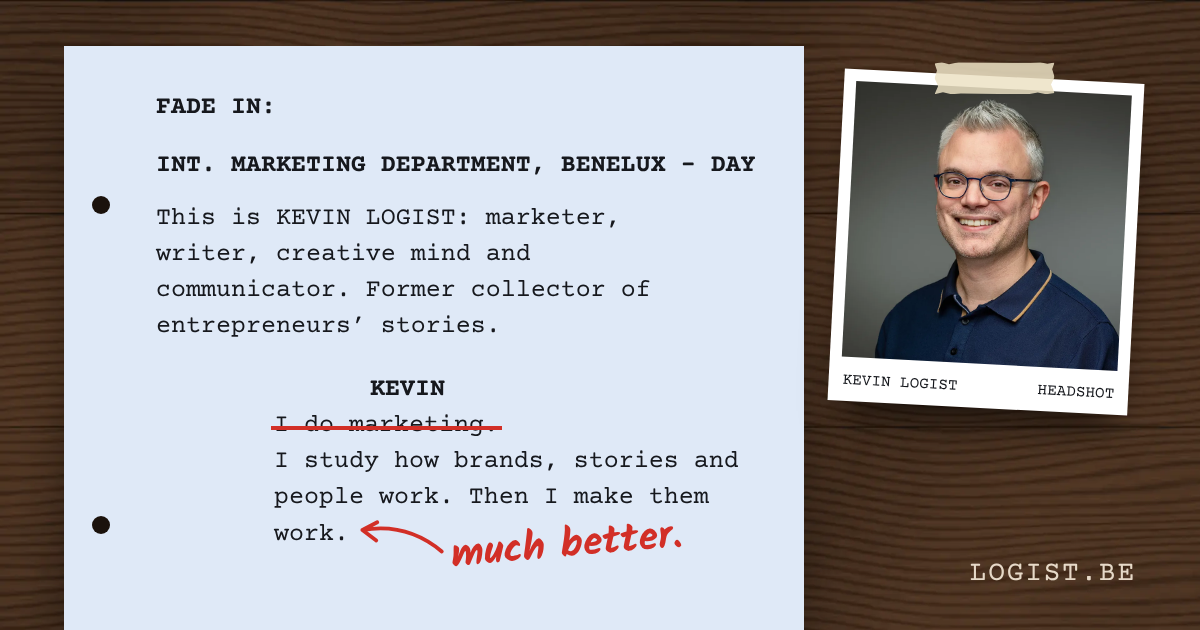
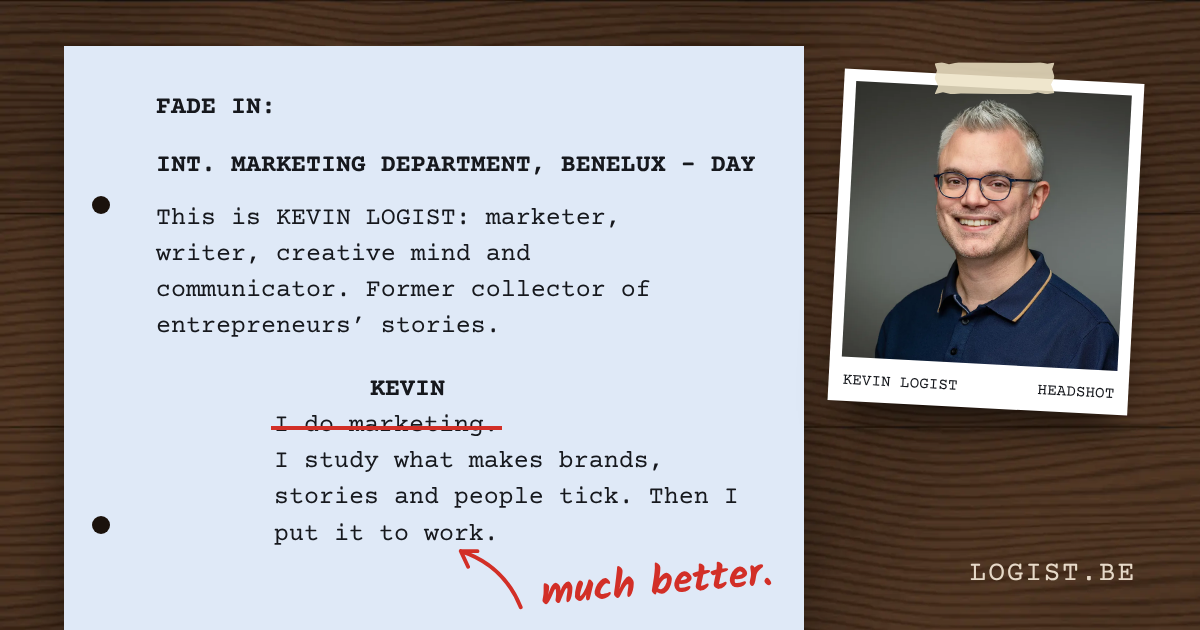
Home: tagline without the double "work" (#3)
Claude-Session: https://claude.ai/code/session_01TsLiEXRLixPrhDtcmGMJW5

Changed region(s): [[0.2158, 0.7238, 0.6475, 0.9651], [0.5858, 0.7841, 0.6167, 0.8143]]

diff --git a/index.html b/index.html
@@ -1,11 +1,11 @@
 <!doctype html>
-<!-- logist.be, site 1.0.1 -->
+<!-- logist.be, site 1.0.2 -->
 <html lang="en">
 <head>
 <meta charset="utf-8">
 <meta name="viewport" content="width=device-width, initial-scale=1, viewport-fit=cover">
 <title>Kevin Logist · Field notes on brands, stories and people</title>
-<meta name="description" content="Kevin Logist studies how brands, stories and people work, and then makes them work. Marketing &amp; communications leader in the Benelux, based in Limburg. Essays, case files and AI experiments.">
+<meta name="description" content="Kevin Logist studies what makes brands, stories and people tick, and then puts it to work. Marketing &amp; communications leader in the Benelux, based in Limburg. Essays, case files and AI experiments.">
 <meta name="robots" content="noindex, nofollow">
 <link rel="canonical" href="https://logist.be/">
 <meta name="theme-color" content="#2a1c13" media="(prefers-color-scheme: light)">
@@ -13,7 +13,7 @@
 <meta property="og:type" content="website">
 <meta property="og:site_name" content="Kevin Logist">
 <meta property="og:title" content="Kevin Logist · Field notes on brands, stories and people">
-<meta property="og:description" content="Kevin Logist studies how brands, stories and people work, and then makes them work. Marketing &amp; communications leader in the Benelux, based in Limburg. Essays, case files and AI experiments.">
+<meta property="og:description" content="Kevin Logist studies what makes brands, stories and people tick, and then puts it to work. Marketing &amp; communications leader in the Benelux, based in Limburg. Essays, case files and AI experiments.">
 <meta property="og:url" content="https://logist.be/">
 <meta property="og:image" content="https://logist.be/assets/img/share.png">
 <meta property="og:image:width" content="1200">
@@ -24,7 +24,7 @@
 <link rel="apple-touch-icon" href="assets/img/apple-touch-icon.png">
 <link rel="preload" href="assets/fonts/courier-prime.woff2" as="font" type="font/woff2" crossorigin>
 <link rel="preload" href="assets/fonts/courier-prime-bold.woff2" as="font" type="font/woff2" crossorigin>
-<link rel="stylesheet" href="assets/site.css?v=1.0.1">
+<link rel="stylesheet" href="assets/site.css?v=1.0.2">
 <script type="application/ld+json">{"@context": "https://schema.org", "@type": "Person", "name": "Kevin Logist", "url": "https://logist.be/", "jobTitle": ["Director of Marketing & Communications Benelux", "Country Head of Communications"], "worksFor": [{"@type": "Organization", "name": "Akkodis"}, {"@type": "Organization", "name": "The Adecco Group"}], "homeLocation": {"@type": "Place", "name": "Limburg, Belgium"}, "knowsLanguage": ["nl", "fr", "en"], "sameAs": ["https://www.linkedin.com/in/kevinlogist"]}</script>
 </head>
 <body class="page-index">
@@ -36,7 +36,7 @@
 <nav class="site-nav" id="site-nav" aria-label="Sections"><ul class="nav-primary"><li><a href="field-notes.html">Field notes</a></li><li><a href="case-files.html">Case files</a></li><li><a href="lab.html">Lab</a></li><li><a href="now.html">Now</a></li><li><a href="about.html">About</a></li></ul></nav>
 </header>
 <div class="sheet">
-<p class="rev">Blue revision · <time datetime="2026-11-16">16/11/2026</time></p>
+<p class="rev">Blue revision · <time datetime="2026-11-17">17/11/2026</time></p>
 <div class="holes" aria-hidden="true"><i></i><i></i><i></i></div>
 <main id="main">
 <h1 class="sr-only">Kevin Logist, marketing and communications leader in the Benelux</h1>
@@ -50,7 +50,7 @@
 
 <p class="char">Kevin</p>
 <div class="dlg rewrite" id="rewrite">
-<p><del>I do marketing.</del> <ins>I study how brands, stories and people work. Then I make them work.</ins></p>
+<p><del>I do marketing.</del> <ins>I study what makes brands, stories and people tick. Then I put it to work.</ins></p>
 <span class="note" aria-hidden="true"><svg viewBox="0 0 70 34"><path d="M66 4C50 20 30 28 6 26M6 26l10-9M6 26l12 5" fill="none" stroke="currentColor" stroke-width="3" stroke-linecap="round"/></svg>much better.</span>
 </div>
 <script>

diff --git a/field-notes/why-b2b-tech-brands-sound-the-same.html b/field-notes/why-b2b-tech-brands-sound-the-same.html
@@ -1,5 +1,5 @@
 <!doctype html>
-<!-- logist.be, site 1.0.1 -->
+<!-- logist.be, site 1.0.2 -->
 <html lang="en">
 <head>
 <meta charset="utf-8">
@@ -26,7 +26,7 @@
 <link rel="apple-touch-icon" href="../assets/img/apple-touch-icon.png">
 <link rel="preload" href="../assets/fonts/courier-prime.woff2" as="font" type="font/woff2" crossorigin>
 <link rel="preload" href="../assets/fonts/courier-prime-bold.woff2" as="font" type="font/woff2" crossorigin>
-<link rel="stylesheet" href="../assets/site.css?v=1.0.1">
+<link rel="stylesheet" href="../assets/site.css?v=1.0.2">
 <script type="application/ld+json">{"@context": "https://schema.org", "@type": "BlogPosting", "headline": "Why so many B2B tech brands sound the same", "description": "Cover the logos on five B2B tech homepages and you can’t tell them apart. Kevin Logist on the four forces behind the sameness, and five ways out.", "datePublished": "2026-11-16", "dateModified": "2026-11-16", "inLanguage": "en", "url": "https://logist.be/field-notes/why-b2b-tech-brands-sound-the-same.html", "mainEntityOfPage": "https://logist.be/field-notes/why-b2b-tech-brands-sound-the-same.html", "image": "https://logist.be/assets/img/share.png", "author": {"@type": "Person", "name": "Kevin Logist", "url": "https://logist.be/"}}</script>
 </head>
 <body class="page-field-notes page-why-b2b-tech-brands-sound-the-same">

diff --git a/about.html b/about.html
@@ -1,5 +1,5 @@
 <!doctype html>
-<!-- logist.be, site 1.0.1 -->
+<!-- logist.be, site 1.0.2 -->
 <html lang="en">
 <head>
 <meta charset="utf-8">
@@ -24,7 +24,7 @@
 <link rel="apple-touch-icon" href="assets/img/apple-touch-icon.png">
 <link rel="preload" href="assets/fonts/courier-prime.woff2" as="font" type="font/woff2" crossorigin>
 <link rel="preload" href="assets/fonts/courier-prime-bold.woff2" as="font" type="font/woff2" crossorigin>
-<link rel="stylesheet" href="assets/site.css?v=1.0.1">
+<link rel="stylesheet" href="assets/site.css?v=1.0.2">
 <script type="application/ld+json">{"@context": "https://schema.org", "@type": "Person", "name": "Kevin Logist", "url": "https://logist.be/", "jobTitle": ["Director of Marketing & Communications Benelux", "Country Head of Communications"], "worksFor": [{"@type": "Organization", "name": "Akkodis"}, {"@type": "Organization", "name": "The Adecco Group"}], "homeLocation": {"@type": "Place", "name": "Limburg, Belgium"}, "knowsLanguage": ["nl", "fr", "en"], "sameAs": ["https://www.linkedin.com/in/kevinlogist"]}</script>
 </head>
 <body class="page-about">

diff --git a/case-files/choosing-what-matters.html b/case-files/choosing-what-matters.html
@@ -1,5 +1,5 @@
 <!doctype html>
-<!-- logist.be, site 1.0.1 -->
+<!-- logist.be, site 1.0.2 -->
 <html lang="en">
 <head>
 <meta charset="utf-8">
@@ -24,7 +24,7 @@
 <link rel="apple-touch-icon" href="../assets/img/apple-touch-icon.png">
 <link rel="preload" href="../assets/fonts/courier-prime.woff2" as="font" type="font/woff2" crossorigin>
 <link rel="preload" href="../assets/fonts/courier-prime-bold.woff2" as="font" type="font/woff2" crossorigin>
-<link rel="stylesheet" href="../assets/site.css?v=1.0.1">
+<link rel="stylesheet" href="../assets/site.css?v=1.0.2">
 </head>
 <body class="page-case-files page-choosing-what-matters">
 <script>document.documentElement.classList.add('js')</script>

diff --git a/case-files/akkodis-brand-launch.html b/case-files/akkodis-brand-launch.html
@@ -1,5 +1,5 @@
 <!doctype html>
-<!-- logist.be, site 1.0.1 -->
+<!-- logist.be, site 1.0.2 -->
 <html lang="en">
 <head>
 <meta charset="utf-8">
@@ -24,7 +24,7 @@
 <link rel="apple-touch-icon" href="../assets/img/apple-touch-icon.png">
 <link rel="preload" href="../assets/fonts/courier-prime.woff2" as="font" type="font/woff2" crossorigin>
 <link rel="preload" href="../assets/fonts/courier-prime-bold.woff2" as="font" type="font/woff2" crossorigin>
-<link rel="stylesheet" href="../assets/site.css?v=1.0.1">
+<link rel="stylesheet" href="../assets/site.css?v=1.0.2">
 </head>
 <body class="page-case-files page-akkodis-brand-launch">
 <script>document.documentElement.classList.add('js')</script>

diff --git a/case-files/b2b-customer-journey.html b/case-files/b2b-customer-journey.html
@@ -1,5 +1,5 @@
 <!doctype html>
-<!-- logist.be, site 1.0.1 -->
+<!-- logist.be, site 1.0.2 -->
 <html lang="en">
 <head>
 <meta charset="utf-8">
@@ -24,7 +24,7 @@
 <link rel="apple-touch-icon" href="../assets/img/apple-touch-icon.png">
 <link rel="preload" href="../assets/fonts/courier-prime.woff2" as="font" type="font/woff2" crossorigin>
 <link rel="preload" href="../assets/fonts/courier-prime-bold.woff2" as="font" type="font/woff2" crossorigin>
-<link rel="stylesheet" href="../assets/site.css?v=1.0.1">
+<link rel="stylesheet" href="../assets/site.css?v=1.0.2">
 </head>
 <body class="page-case-files page-b2b-customer-journey">
 <script>document.documentElement.classList.add('js')</script>

diff --git a/case-files/ondernemers-magazine.html b/case-files/ondernemers-magazine.html
@@ -1,5 +1,5 @@
 <!doctype html>
-<!-- logist.be, site 1.0.1 -->
+<!-- logist.be, site 1.0.2 -->
 <html lang="en">
 <head>
 <meta charset="utf-8">
@@ -24,7 +24,7 @@
 <link rel="apple-touch-icon" href="../assets/img/apple-touch-icon.png">
 <link rel="preload" href="../assets/fonts/courier-prime.woff2" as="font" type="font/woff2" crossorigin>
 <link rel="preload" href="../assets/fonts/courier-prime-bold.woff2" as="font" type="font/woff2" crossorigin>
-<link rel="stylesheet" href="../assets/site.css?v=1.0.1">
+<link rel="stylesheet" href="../assets/site.css?v=1.0.2">
 </head>
 <body class="page-case-files page-ondernemers-magazine">
 <script>document.documentElement.classList.add('js')</script>

diff --git a/case-files/dronematrix-rebrand.html b/case-files/dronematrix-rebrand.html
@@ -1,5 +1,5 @@
 <!doctype html>
-<!-- logist.be, site 1.0.1 -->
+<!-- logist.be, site 1.0.2 -->
 <html lang="en">
 <head>
 <meta charset="utf-8">
@@ -24,7 +24,7 @@
 <link rel="apple-touch-icon" href="../assets/img/apple-touch-icon.png">
 <link rel="preload" href="../assets/fonts/courier-prime.woff2" as="font" type="font/woff2" crossorigin>
 <link rel="preload" href="../assets/fonts/courier-prime-bold.woff2" as="font" type="font/woff2" crossorigin>
-<link rel="stylesheet" href="../assets/site.css?v=1.0.1">
+<link rel="stylesheet" href="../assets/site.css?v=1.0.2">
 </head>
 <body class="page-case-files page-dronematrix-rebrand">
 <script>document.documentElement.classList.add('js')</script>

diff --git a/case-files/drone-community.html b/case-files/drone-community.html
@@ -1,5 +1,5 @@
 <!doctype html>
-<!-- logist.be, site 1.0.1 -->
+<!-- logist.be, site 1.0.2 -->
 <html lang="en">
 <head>
 <meta charset="utf-8">
@@ -24,7 +24,7 @@
 <link rel="apple-touch-icon" href="../assets/img/apple-touch-icon.png">
 <link rel="preload" href="../assets/fonts/courier-prime.woff2" as="font" type="font/woff2" crossorigin>
 <link rel="preload" href="../assets/fonts/courier-prime-bold.woff2" as="font" type="font/woff2" crossorigin>
-<link rel="stylesheet" href="../assets/site.css?v=1.0.1">
+<link rel="stylesheet" href="../assets/site.css?v=1.0.2">
 </head>
 <body class="page-case-files page-drone-community">
 <script>document.documentElement.classList.add('js')</script>

diff --git a/side-projects.html b/side-projects.html
@@ -1,5 +1,5 @@
 <!doctype html>
-<!-- logist.be, site 1.0.1 -->
+<!-- logist.be, site 1.0.2 -->
 <html lang="en">
 <head>
 <meta charset="utf-8">
@@ -24,7 +24,7 @@
 <link rel="apple-touch-icon" href="assets/img/apple-touch-icon.png">
 <link rel="preload" href="assets/fonts/courier-prime.woff2" as="font" type="font/woff2" crossorigin>
 <link rel="preload" href="assets/fonts/courier-prime-bold.woff2" as="font" type="font/woff2" crossorigin>
-<link rel="stylesheet" href="assets/site.css?v=1.0.1">
+<link rel="stylesheet" href="assets/site.css?v=1.0.2">
 </head>
 <body class="page-side-projects">
 <script>document.documentElement.classList.add('js')</script>

diff --git a/field-notes.html b/field-notes.html
@@ -1,5 +1,5 @@
 <!doctype html>
-<!-- logist.be, site 1.0.1 -->
+<!-- logist.be, site 1.0.2 -->
 <html lang="en">
 <head>
 <meta charset="utf-8">
@@ -24,7 +24,7 @@
 <link rel="apple-touch-icon" href="assets/img/apple-touch-icon.png">
 <link rel="preload" href="assets/fonts/courier-prime.woff2" as="font" type="font/woff2" crossorigin>
 <link rel="preload" href="assets/fonts/courier-prime-bold.woff2" as="font" type="font/woff2" crossorigin>
-<link rel="stylesheet" href="assets/site.css?v=1.0.1">
+<link rel="stylesheet" href="assets/site.css?v=1.0.2">
 </head>
 <body class="page-field-notes">
 <script>document.documentElement.classList.add('js')</script>

diff --git a/case-files.html b/case-files.html
@@ -1,5 +1,5 @@
 <!doctype html>
-<!-- logist.be, site 1.0.1 -->
+<!-- logist.be, site 1.0.2 -->
 <html lang="en">
 <head>
 <meta charset="utf-8">
@@ -24,7 +24,7 @@
 <link rel="apple-touch-icon" href="assets/img/apple-touch-icon.png">
 <link rel="preload" href="assets/fonts/courier-prime.woff2" as="font" type="font/woff2" crossorigin>
 <link rel="preload" href="assets/fonts/courier-prime-bold.woff2" as="font" type="font/woff2" crossorigin>
-<link rel="stylesheet" href="assets/site.css?v=1.0.1">
+<link rel="stylesheet" href="assets/site.css?v=1.0.2">
 </head>
 <body class="page-case-files">
 <script>document.documentElement.classList.add('js')</script>
